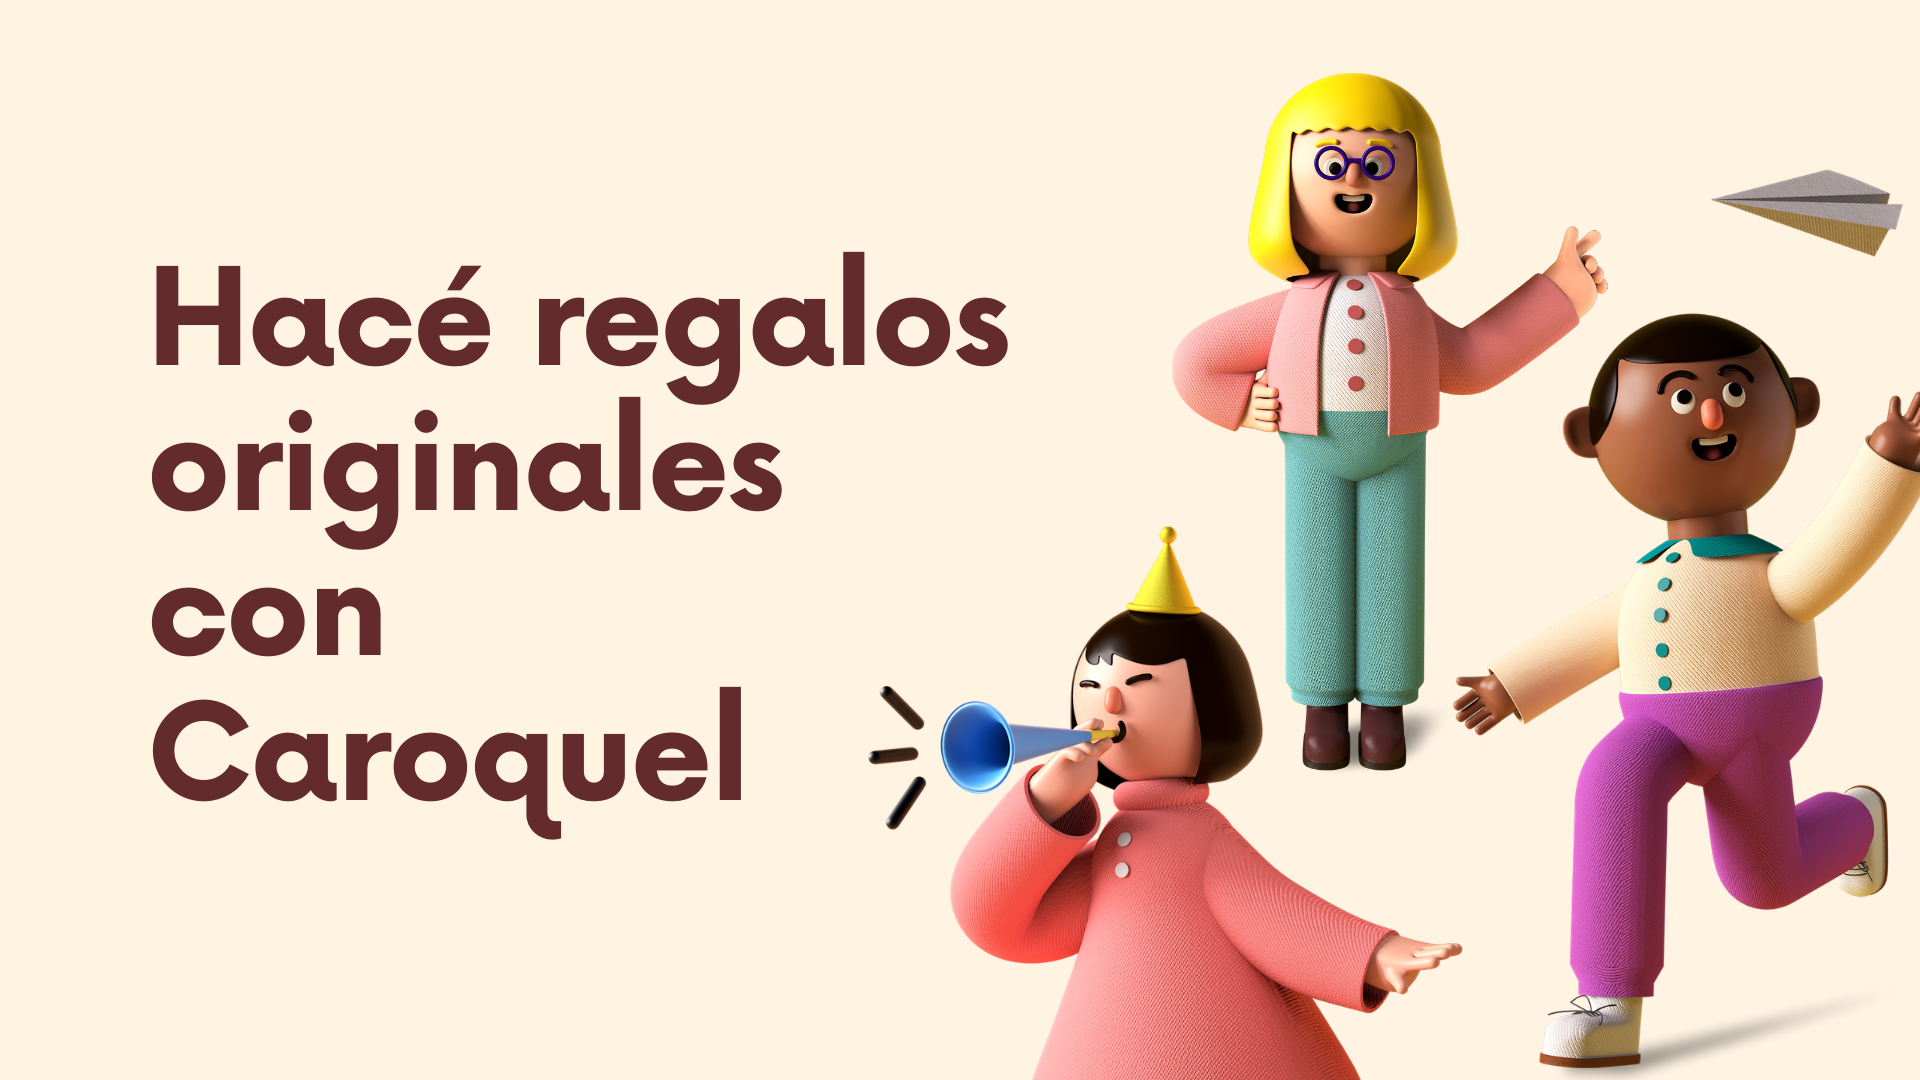
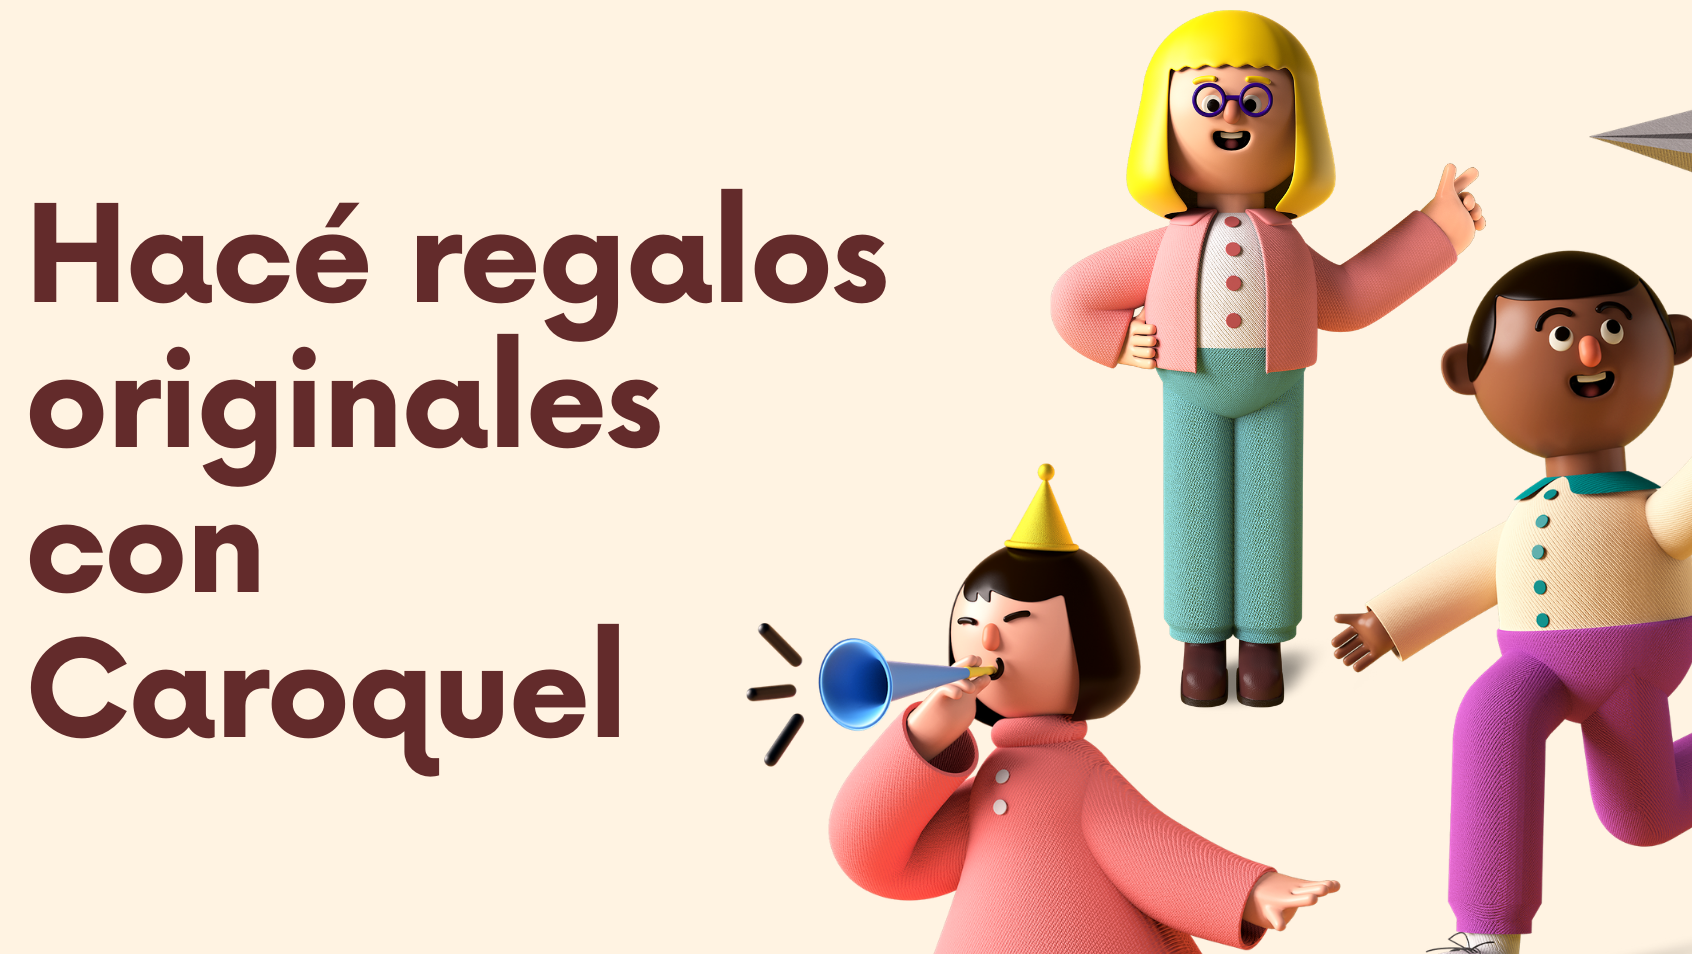
correcciones en sass

diff --git a/index.html b/index.html
@@ -22,6 +22,7 @@
 	<link rel="stylesheet" href="https://cdn.jsdelivr.net/npm/bootstrap@4.5.3/dist/css/bootstrap.min.css" integrity="sha384-TX8t27EcRE3e/ihU7zmQxVncDAy5uIKz4rEkgIXeMed4M0jlfIDPvg6uqKI2xXr2" crossorigin="anonymous">
 	<script src="https://cdn.jsdelivr.net/npm/bootstrap@4.5.3/dist/js/bootstrap.bundle.min.js" integrity="sha384-ho+j7jyWK8fNQe+A12Hb8AhRq26LrZ/JpcUGGOn+Y7RsweNrtN/tE3MoK7ZeZDyx" crossorigin="anonymous"></script>
 	<link rel="stylesheet" href="https://cdnjs.cloudflare.com/ajax/libs/animate.css/4.1.1/animate.min.css"/>
+	<link rel="stylesheet" href="https://stackpath.bootstrapcdn.com/font-awesome/4.7.0/css/font-awesome.min.css">
 
 </head>
 
@@ -69,30 +70,39 @@
 	
 	<div class="home__container container-fluid">
 
-		<div id="carouselExampleSlidesOnly" class="carousel slide" data-ride="carousel">
+		<div id="carouselExampleIndicators" class="carousel slide" data-ride="carousel">
+			  
+			<ol class="carousel-indicators">
+			    <li data-target="#carouselExampleIndicators" data-slide-to="0" class="active"></li>
+			    <li data-target="#carouselExampleIndicators" data-slide-to="1"></li>
+			    <li data-target="#carouselExampleIndicators" data-slide-to="2"></li>
+			</ol>
 
-	 		<ol class="carousel-indicators">
-	    		<li data-target="#carouselExampleIndicators" data-slide-to="0" class="active"></li>
-	    		<li data-target="#carouselExampleIndicators" data-slide-to="1"></li>
-	    		<li data-target="#carouselExampleIndicators" data-slide-to="2"></li>
-	  		</ol>
-
-  			<div class="carousel-inner">
-
-	    		<div class="carousel-item active">
-					<img class="w-100 rounded img-fluid mx-auto d-block" src=".\imagenes\slide1.jpg" alt="banner1">
-				</div>
-
-	   			<div class="carousel-item">
-					<img class="w-100 rounded img-fluid mx-auto d-block" src=".\imagenes\slide2.jpg" alt="banner2">
-				</div>
-
-	    		<div class="carousel-item">
-	    			<img class="w-100 rounded img-fluid mx-auto d-block" src=".\imagenes\slide3.jpg" alt="banner3">
-	    		</div>
-
-  			</div>
-
+			<div class="carousel-inner container-fluid">
+			   
+			    <div class="carousel-item active">
+			      <img class="d-block img-fluid w-100" src=".\imagenes\slide1.png" alt="banner1">
+			    </div>
+			    
+			    <div class="carousel-item">
+			      <img class="d-block img-fluid w-100" src=".\imagenes\slide2.png" alt="banner2">
+			    </div>
+			    
+			    <div class="carousel-item">
+			      <img class="d-block img-fluid w-100" src=".\imagenes\slide3.png" alt="banner3">
+			    </div>
+			</div>
+			  
+			<a class="carousel-control-prev" href="#carouselExampleIndicators" role="button" data-slide="prev">
+			    <span class="carousel-control-prev-icon" aria-hidden="true"></span>
+			    <span class="sr-only">Anterior</span>
+			</a>
+			
+			<a class="carousel-control-next" href="#carouselExampleIndicators" role="button" data-slide="next">
+			    <span class="carousel-control-next-icon" aria-hidden="true"></span>
+			    <span class="sr-only">Siguiente</span>
+			</a>
+			
 		</div>
 
 	</div>
@@ -106,7 +116,7 @@
 <section id="quienes_somos">
 	<div class="quienes_somos__container container-fluid"> 
 
-		<div class="encabezado text-center">
+		<div class="text-center">
 			<h1 class="titulo"> QUIENES SOMOS </h1>
 			 <p class="parrafo lead">CAROQUEL ARTESANIAS es un emprendimiento familiar nacido en Buenos Aires. En Caroquel creamos juguetes únicos y originales, ideales para los más chicos (y no tanto!). Cada juguete está confeccionado a mano, de principio a fin. Y como nuestra meta es que los chicos se diviertan mientras aprenden, tenemos juguetes didácticos para los más peques.</p>
 		</div>
@@ -153,8 +163,8 @@
 
 			<div class="container-fluid searchbar">
  			 <form class="form-inline">
-   				 <input class="form-control mr-sm-3 col-11" type="search" placeholder="Buscar en la página..." aria-label="Search">
-    			<button class="btn btn-info my-2 my-sm-0" type="submit">Buscar</button>
+   				 <input class="form-control mr-sm-3 col-sm-10 col-md-10 col-lg-11" type="search" placeholder="Buscar en el catálogo..." aria-label="Search">
+    			<button class="btn btn-info my-2 my-sm-2" type="submit">Buscar</button>
  			 </form>
  			</div>
 
@@ -163,9 +173,9 @@
 
 			<div class="text-center col-sm-6 col-md-6 col-lg-3">
 				<div class="card">
-					<div class="card-body rounded">
+					<div class="card-body container">
 						<img class="rounded img-fluid" src=".\imagenes\catalogo\1.jpg">
-						<p class="card-text">Lámpara mesa de luz. Modelo: muñeco robot. Altura: 40cm</p>
+						<p class="card-text">Lámpara mesa de luz. Modelo: robot. Altura: 40cm</p>
 						<a class="btn btn-outline-info" href="#contacto" role="button">Comprar 
 							<svg xmlns="http://www.w3.org/2000/svg" width="16" height="16" fill="currentColor" class="bi bi-cart2" viewBox="0 0 16 16">
 	  						<path fill-rule="evenodd" d="M0 2.5A.5.5 0 0 1 .5 2H2a.5.5 0 0 1 .485.379L2.89 4H14.5a.5.5 0 0 1 .485.621l-1.5 6A.5.5 0 0 1 13 11H4a.5.5 0 0 1-.485-.379L1.61 3H.5a.5.5 0 0 1-.5-.5zM3.14 5l1.25 5h8.22l1.25-5H3.14zM5 13a1 1 0 1 0 0 2 1 1 0 0 0 0-2zm-2 1a2 2 0 1 1 4 0 2 2 0 0 1-4 0zm9-1a1 1 0 1 0 0 2 1 1 0 0 0 0-2zm-2 1a2 2 0 1 1 4 0 2 2 0 0 1-4 0z"/>
@@ -207,7 +217,7 @@
 				<div class="card">
 					<div class="card-body">
 						<img class="rounded img-fluid" src=".\imagenes\catalogo\4.jpg">
-						<p class="card-text">Portapañal para bebés personalizado. Altura: 50cm</p>
+						<p class="card-text">Portapañales personalizado. Altura: 50cm</p>
 						<a class="btn btn-outline-info" href="#contacto" role="button">Comprar 
 							<svg xmlns="http://www.w3.org/2000/svg" width="16" height="16" fill="currentColor" class="bi bi-cart2" viewBox="0 0 16 16">
 	  						<path fill-rule="evenodd" d="M0 2.5A.5.5 0 0 1 .5 2H2a.5.5 0 0 1 .485.379L2.89 4H14.5a.5.5 0 0 1 .485.621l-1.5 6A.5.5 0 0 1 13 11H4a.5.5 0 0 1-.485-.379L1.61 3H.5a.5.5 0 0 1-.5-.5zM3.14 5l1.25 5h8.22l1.25-5H3.14zM5 13a1 1 0 1 0 0 2 1 1 0 0 0 0-2zm-2 1a2 2 0 1 1 4 0 2 2 0 0 1-4 0zm9-1a1 1 0 1 0 0 2 1 1 0 0 0 0-2zm-2 1a2 2 0 1 1 4 0 2 2 0 0 1-4 0z"/>
@@ -239,7 +249,7 @@
 				<div class="card">
 					<div class="card-body">
 						<img class="rounded img-fluid" src=".\imagenes\catalogo\6.jpg">
-						<p class="card-text">Lámpara mesa de luz. Modelo: castillo princesas.</p>
+						<p class="card-text">Lámpara mesa de luz. Modelo: castillo princesas tono pastel.</p>
 						<a class="btn btn-outline-info" href="#contacto" role="button">Comprar 
 							<svg xmlns="http://www.w3.org/2000/svg" width="16" height="16" fill="currentColor" class="bi bi-cart2" viewBox="0 0 16 16">
 	  						<path fill-rule="evenodd" d="M0 2.5A.5.5 0 0 1 .5 2H2a.5.5 0 0 1 .485.379L2.89 4H14.5a.5.5 0 0 1 .485.621l-1.5 6A.5.5 0 0 1 13 11H4a.5.5 0 0 1-.485-.379L1.61 3H.5a.5.5 0 0 1-.5-.5zM3.14 5l1.25 5h8.22l1.25-5H3.14zM5 13a1 1 0 1 0 0 2 1 1 0 0 0 0-2zm-2 1a2 2 0 1 1 4 0 2 2 0 0 1-4 0zm9-1a1 1 0 1 0 0 2 1 1 0 0 0 0-2zm-2 1a2 2 0 1 1 4 0 2 2 0 0 1-4 0z"/>
@@ -253,7 +263,7 @@
 				<div class="card">
 					<div class="card-body">
 						<img class="rounded img-fluid" src=".\imagenes\catalogo\7.jpg">
-						<p class="card-text">Carritos con tirador. 25x40cm. Incluyen bloques.</p>
+						<p class="card-text">Carritos con tirador. 25x40cm. Incluyen bloques de colores.</p>
 						<a class="btn btn-outline-info" href="#contacto" role="button">Comprar 
 							<svg xmlns="http://www.w3.org/2000/svg" width="16" height="16" fill="currentColor" class="bi bi-cart2" viewBox="0 0 16 16">
 	  						<path fill-rule="evenodd" d="M0 2.5A.5.5 0 0 1 .5 2H2a.5.5 0 0 1 .485.379L2.89 4H14.5a.5.5 0 0 1 .485.621l-1.5 6A.5.5 0 0 1 13 11H4a.5.5 0 0 1-.485-.379L1.61 3H.5a.5.5 0 0 1-.5-.5zM3.14 5l1.25 5h8.22l1.25-5H3.14zM5 13a1 1 0 1 0 0 2 1 1 0 0 0 0-2zm-2 1a2 2 0 1 1 4 0 2 2 0 0 1-4 0zm9-1a1 1 0 1 0 0 2 1 1 0 0 0 0-2zm-2 1a2 2 0 1 1 4 0 2 2 0 0 1-4 0z"/>
@@ -299,7 +309,7 @@
 				<div class="card">
 					<div class="card-body">
 						<img class="rounded img-fluid" src=".\imagenes\catalogo\10.jpg">
-						<p class="card-text">Camión mediano con tirador. Incluye bloques apilables (40 apróx).</p>
+						<p class="card-text">Camión mediano con tirador. Incluye bloques apilables (40 apróximadamente).</p>
 						<a class="btn btn-outline-info" href="#contacto" role="button">Comprar 
 							<svg xmlns="http://www.w3.org/2000/svg" width="16" height="16" fill="currentColor" class="bi bi-cart2" viewBox="0 0 16 16">
 	  						<path fill-rule="evenodd" d="M0 2.5A.5.5 0 0 1 .5 2H2a.5.5 0 0 1 .485.379L2.89 4H14.5a.5.5 0 0 1 .485.621l-1.5 6A.5.5 0 0 1 13 11H4a.5.5 0 0 1-.485-.379L1.61 3H.5a.5.5 0 0 1-.5-.5zM3.14 5l1.25 5h8.22l1.25-5H3.14zM5 13a1 1 0 1 0 0 2 1 1 0 0 0 0-2zm-2 1a2 2 0 1 1 4 0 2 2 0 0 1-4 0zm9-1a1 1 0 1 0 0 2 1 1 0 0 0 0-2zm-2 1a2 2 0 1 1 4 0 2 2 0 0 1-4 0z"/>
@@ -380,7 +390,7 @@
 
 		<div class="contacto__formulario row">
 
-    		<div class="col-sm">
+    		<div class="col-xs-12 col-lg">
 			<form>
 				
 				<div class="form-row">
@@ -422,7 +432,7 @@
 						      Tu mensaje ha sido enviado con éxito. En breve nos estaremos comunicando!
 						      </div>
 						      <div class="modal-footer">
-						        <button type="button" class="btn btn-secondary" data-dismiss="modal">Cerrar</button>
+						        <button type="button" class="btn btn-primary" data-dismiss="modal">Cerrar</button>
 						      </div>
 						    </div>
 						  </div>
@@ -435,29 +445,27 @@
 			</form>
     		</div>
    
-   		<div class="contacto__redes col-sm text-center">
-		     	<h3 class="mb-4">BUSCANOS EN LAS REDES</h3>
+   		<div class="contacto__redes col-xs col-md-6 col-lg text-center">
+		     	<div class="titulo--secundario my-4">BUSCANOS EN LAS REDES</div>
+				  	<a class="d-inline m-3" href="http://pinterest.com" target="__blank">
+				   	<img src=".\imagenes\icons\pinterest.svg" class="icon d-inline rounded-circle" alt="pinterest">
+				   	</a>
 
-			  	<a class="d-inline m-3" href="http://pinterest.com" target="__blank">
-			   	<img src=".\imagenes\icons\pinterest.svg" class="icon d-inline-block rounded-circle" alt="pinterest">
-			   	</a>
-							
-				<a class="d-inline m-3" href="http://instagram.com" target="__blank">
-			   	<img src=".\imagenes\icons\instagram.svg" class="icon d-inline-block rounded-circle" alt="instagram">
-			   	</a>
-			   		 		
-			   	<a class="d-inline m-3" href="http://facebook.com/caroquel.artesanias" target="__blank">
-			   	<img src=".\imagenes\icons\facebook.svg" class="icon d-inline-block rounded-circle" alt="facebook">
-			   	</a>
-
-			   	<a class="d-inline m-3" href="https://api.whatsapp.com/send?phone=5491148000000&text=Hola!%20Quiero%20hacer%20una%20consulta!" target="__blank">
-			   	<img src=".\imagenes\icons\whatsapp.svg" class="icon d-inline-block rounded-circle" alt="whatsapp">
-			   	</a>
+					<a class="d-inline m-3" href="http://instagram.com" target="__blank">
+				   	<img src=".\imagenes\icons\instagram.svg" class="icon d-inline rounded-circle" alt="instagram">
+				   	</a>
+				   	
+				   	<a class="d-inline m-3" href="http://facebook.com/caroquel.artesanias" target="__blank">
+				   	<img src=".\imagenes\icons\facebook.svg" class="icon d-inline rounded-circle" alt="facebook">
+				   	</a>
+		
+				<a href="https://api.whatsapp.com/send?phone=5491148000000&text=Hola!%20Quiero%20hacer%20una%20consulta!" class="whatsapp" target="_blank"><i class="fa fa-whatsapp whatsapp-icon"></i>
+				</a>
     	</div>
 
-    	<div class="contacto__pagos col-sm text-center">
-      		<h3 class="mb-4">MEDIOS DE PAGO</h3>
-			<img class="d-inline-block rounded" src=".\imagenes\mercadopago.png">
+    	<div class="contacto__pagos col-xs col-md-6 col-lg text-center">
+      		<div class="titulo--secundario my-4">MEDIOS DE PAGO</div>
+			<img class="pagos-img d-inline-block" src=".\imagenes\mercadopago.png">
     	</div>
 
 	</div>

diff --git a/css/main.css b/css/main.css
@@ -1,5 +1,5 @@
 /*--------------------------------------------------------------
-General
+                        General
 --------------------------------------------------------------*/
 /*--------------------------------------------------------------
 # tipografia
@@ -12,29 +12,32 @@ General
   color: #4d130b;
   margin-bottom: 2rem; }
 
-h3 {
+.titulo--secundario {
   color: white;
-  font-family: "Poppins", sans-serif;
+  letter-spacing: 3px;
+  font-size: 1.5rem;
   font-weight: bold;
+  font-family: "Poppins", sans-serif;
   text-shadow: 1px 3px 5px grey;
-  letter-spacing: 2px; }
+  margin-bottom: 1rem; }
 
-.parrafo {
-  font-family: "Open Sans", sans-serif;
-  text-align: justify;
-  margin: 2rem; }
+.card-text {
+  text-align: center; }
 
 /*--------------------------------------------------------------
 # Colores
 --------------------------------------------------------------*/
-.quienes_somos__container {
+.home__container {
   background-color: #d2f5e3; }
 
-.catalogo__container {
+.quienes_somos__container {
   background-color: #f5e3ce; }
 
-.galeria__container {
+.catalogo__container {
   background-color: #d2f5e3; }
+
+.galeria__container {
+  background-color: #f5e3ce; }
 
 .contacto__container {
   background-color: #94b4a4;
@@ -61,7 +64,7 @@ section {
   box-shadow: 0 0.1rem 1rem 0 rgba(0, 0, 0, 0.1); }
 
 /*--------------------------------------------------------------
-Secciones
+                       Secciones
 --------------------------------------------------------------*/
 /*--------------------------------------------------------------
 # quienes somos
@@ -102,12 +105,39 @@ textarea,
   box-shadow: 0 0.5rem 1rem 0 rgba(0, 0, 0, 0.1);
   border: none; }
 
+.contacto__redes img:hover {
+  filter: none;
+  opacity: 1;
+  animation: pulse;
+  animation-duration: 1s; }
+
 .contacto__redes a:hover {
-  text-decoration: none; }
+  text-decoration: none;
+  color: white;
+  animation: pulse;
+  animation-duration: 1s; }
 
 .icon {
   width: 50px;
-  height: 50px; }
+  height: 50px;
+  filter: grayscale(80%);
+  opacity: 0.8; }
+
+.whatsapp {
+  position: fixed;
+  width: 60px;
+  height: 60px;
+  bottom: 40px;
+  right: 40px;
+  background-color: #25d366;
+  color: #FFF;
+  border-radius: 50px;
+  text-align: center;
+  font-size: 30px;
+  z-index: 100; }
+
+.whatsapp-icon {
+  margin-top: 13px; }
 
 /*--------------------------------------------------------------
 # galeria
@@ -162,30 +192,29 @@ nav {
   box-shadow: 0 0.1rem 1rem 0 rgba(0, 0, 0, 0.1); }
 
 /*--------------------------------------------------------------
-Media queries
---------------------------------------------------------------*/
-/*--------------------------------------------------------------
-# QUERIES
+                     Media queries
 --------------------------------------------------------------*/
 /*--------------------------------------------------------------
 # MOBILE
 --------------------------------------------------------------*/
-@media (min-width: 480px) and (max-width: 767px), (orientation: portrait) {
+@media (min-width: 320px) and (max-width: 768px) {
   .icon {
     width: 40px;
     height: 40px;
-    margin: 10px; }
+    filter: none;
+    opacity: 1;
+    display: block; }
   .titulo {
     font-size: 18px;
     font-weight: bold; }
-  .parrafo {
-    font-size: 14px; }
-  h3 {
-    font-size: 10px;
-    letter-spacing: 2px;
-    text-align: left;
-    margin: 5px;
-    padding: 5px; }
+  .titulo--secundario {
+    color: white;
+    letter-spacing: 1px;
+    font-size: 0.8rem;
+    font-weight: bold;
+    font-family: "Poppins", sans-serif;
+    text-shadow: 1px 3px 5px grey;
+    margin-bottom: 1rem; }
   .galeria__fotos img {
     opacity: 1;
     filter: none;
@@ -207,22 +236,25 @@ Media queries
 /*--------------------------------------------------------------
 # TABLET
 --------------------------------------------------------------*/
-@media (min-width: 768px) and (max-width: 992px), (orientation: portrait) {
+@media (max-width: 1024px) {
   .icon {
     width: 40px;
     height: 40px;
-    margin: 10px; }
+    filter: none;
+    opacity: 1;
+    display: block; }
   .titulo {
     font-size: 22px;
     font-weight: bold; }
-  .parrafo {
-    font-size: 18px; }
-  h3 {
-    font-size: 12px;
-    letter-spacing: 3px;
-    text-align: center;
-    margin: 5px;
-    padding: 5px; }
+  .titulo--secundario {
+    color: white;
+    letter-spacing: 1px;
+    font-size: 1rem;
+    font-weight: bold;
+    font-family: "Poppins", sans-serif;
+    text-shadow: 1px 3px 5px grey;
+    margin-bottom: 1rem;
+    text-align: center; }
   .galeria__fotos img {
     opacity: 1;
     filter: none;
